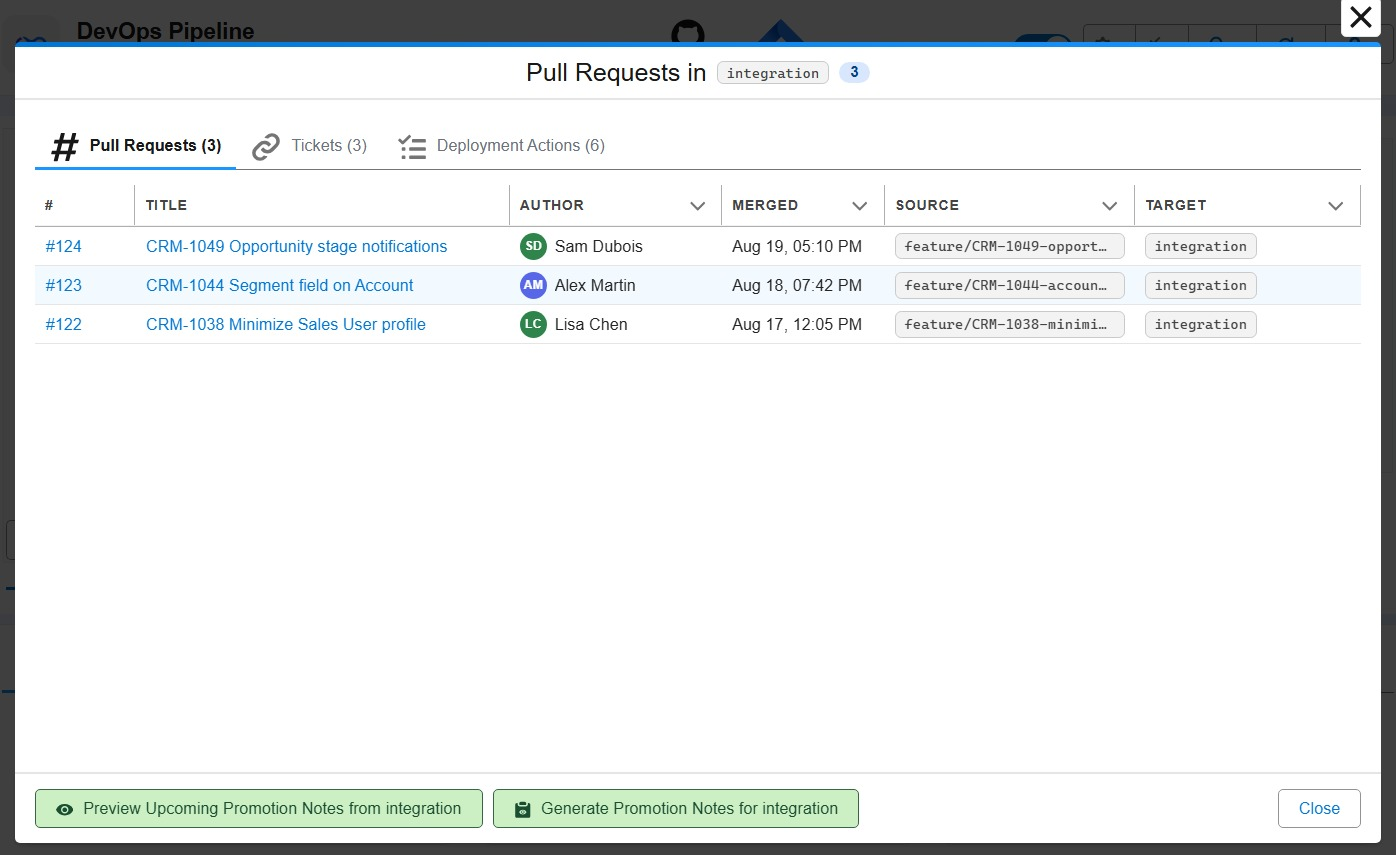
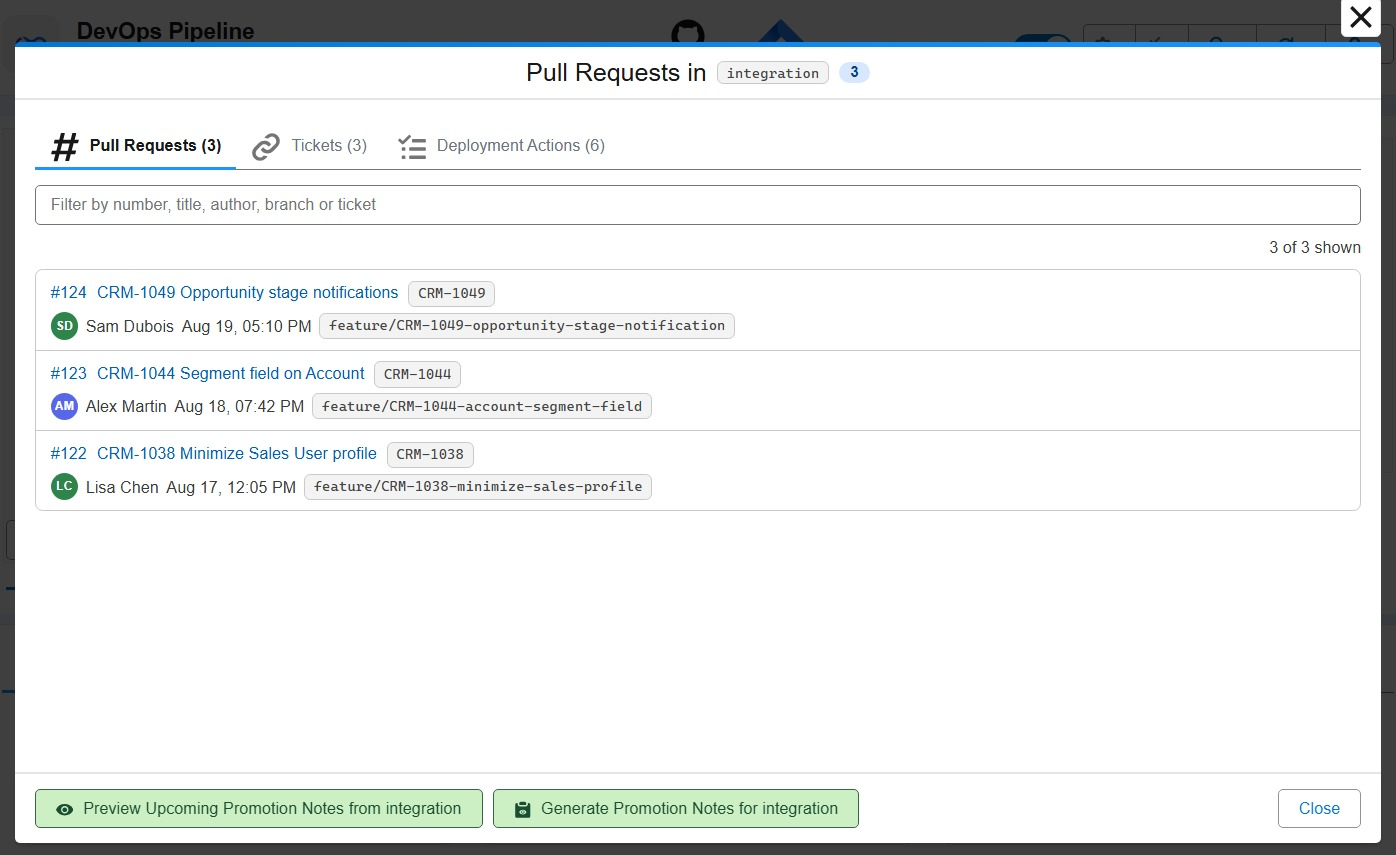
docs(pipeline): the Pull Requests tab of a branch is a list with a text filter

Changed region(s): [[0.0308, 0.2129, 0.9857, 0.4865], [0.0308, 0.517, 0.462, 0.6082]]

diff --git a/docs/salesforce-devops-promotion-branches.md b/docs/salesforce-devops-promotion-branches.md
@@ -403,7 +403,7 @@ The window of a branch runs since its last direct merge into the next branch, an
 
 A promotion carries **commits**, not Pull Request numbers. On a pipeline where User Stories are merged into `integration` and `integration` is then merged into `uat`, every first-parent commit of `uat` is one of those syncs: they are opened up into the User Story merges they brought in, so each story is a candidate of its own and can be carried alone. What stays grouped is a single commit that really brought several Pull Requests in at once (a squashed sync, an octopus merge, a back-merge from the target branch): promoting one of them carries the others too. The command names them before cherry-picking anything, and declares them all in the Pull Request.
 
-The lists and counters of the DevOps Pipeline leave out the Pull Requests that **move** other Pull Requests: a merge between two major branches, and a promotion Pull Request. Everything that carries its own change stays listed, whatever the branch is named (`feature/`, `fix/`, `retrofit/`, `hotfix/`...). The "Show merge and promotion Pull Requests" toggle at the top of the branch window brings the others back. The rule for major-to-major merges applies to **every** project, promotion branches or not, since such a merge is plumbing in any pipeline; a `promotion/` branch is only treated as a vehicle when the feature is enabled, exactly as the deployment jobs treat it.
+The lists and counters of the DevOps Pipeline leave out the Pull Requests that **move** other Pull Requests: a merge between two major branches, and a promotion Pull Request. Everything that carries its own change stays listed, whatever the branch is named (`feature/`, `fix/`, `retrofit/`, `hotfix/`...). The **Merges and promotions** filter of the Pull Requests tab of the branch window brings the others back. The rule for major-to-major merges applies to **every** project, promotion branches or not, since such a merge is plumbing in any pipeline; a `promotion/` branch is only treated as a vehicle when the feature is enabled, exactly as the deployment jobs treat it.
 
 The deployment jobs still see the stories in the `uat` promotion window: their original merge commits have not reached `preprod`, so their metadata is redeployed as a no-op and their already performed actions are skipped. That is a deployment concern, not a listing one.
 

diff --git a/docs/vscode-extension-devops-pipeline.md b/docs/vscode-extension-devops-pipeline.md
@@ -64,6 +64,8 @@ Click a major branch in the diagram. The window lists the Pull Requests merged i
 - **(2)** lists the deployment actions of those Pull Requests, grouped by Pull Request with its author, numbered in the order they run. Once the deployment ran, each action shows its status in the org of the branch, and a failed one can be retried from there: see [Recover a failed action](salesforce-devops-work-on-user-story-deployment-actions.md#recover-a-failed-action).
 - **(3)** previews or generates the promotion notes of the next merge to the upper branch.
 
+The Pull Requests tab is a list you can filter: type a number, a title, an author, a branch or a ticket. A story a promotion brought into the branch says **Carried by** and the number of that promotion, which opens it; typing that number lists everything it brought. **Merges and promotions** adds the Pull Requests that only move other ones.
+
 Click the number or the title of a Pull Request to open it without leaving the window: a line above the title brings you back, with the stories you had ticked still ticked.
 
 ## Find and open any Pull Request

diff --git a/.claude/skills/promotion-branches/SKILL.md b/.claude/skills/promotion-branches/SKILL.md
@@ -335,8 +335,8 @@ Major-to-major merges are filtered for **every** project: such a merge is plumbi
 A `promotion/` branch is only a vehicle when the feature is enabled, because otherwise it really is
 an ordinary branch, which is exactly how the deployment jobs treat it.
 
-What brings the vehicles back: the **Show merge and promotion Pull Requests** toggle (top right of
-the branch window modal), and `--include-promotions` on `hardis:doc:release-notes`.
+What brings the vehicles back: the **Merges and promotions** chip of the Pull Requests list
+(`s/pullRequestList`, next to its text filter), and `--include-promotions` on `hardis:doc:release-notes`.
 
 ## Performance
 
